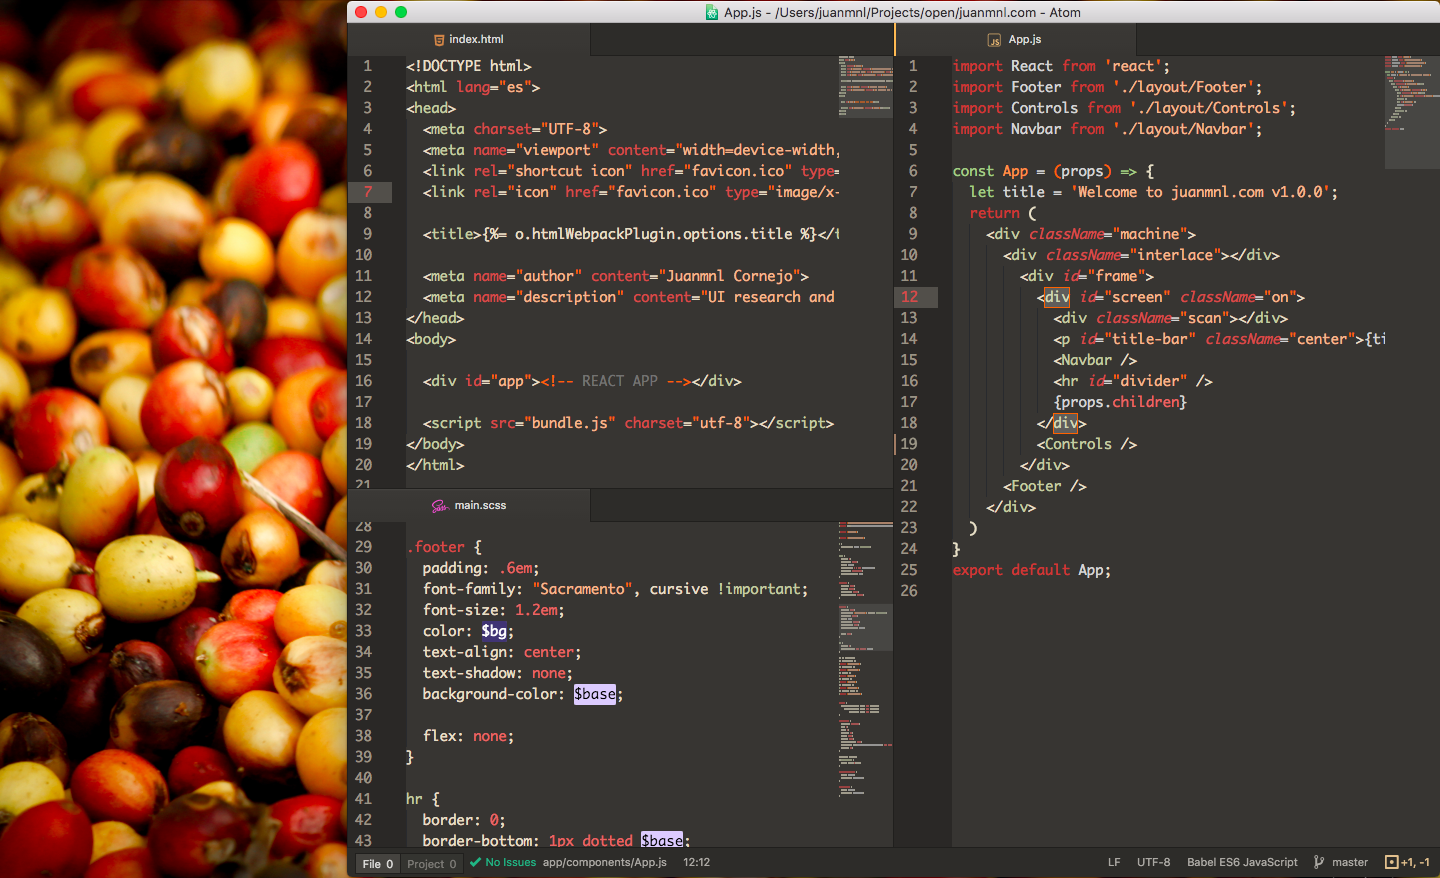
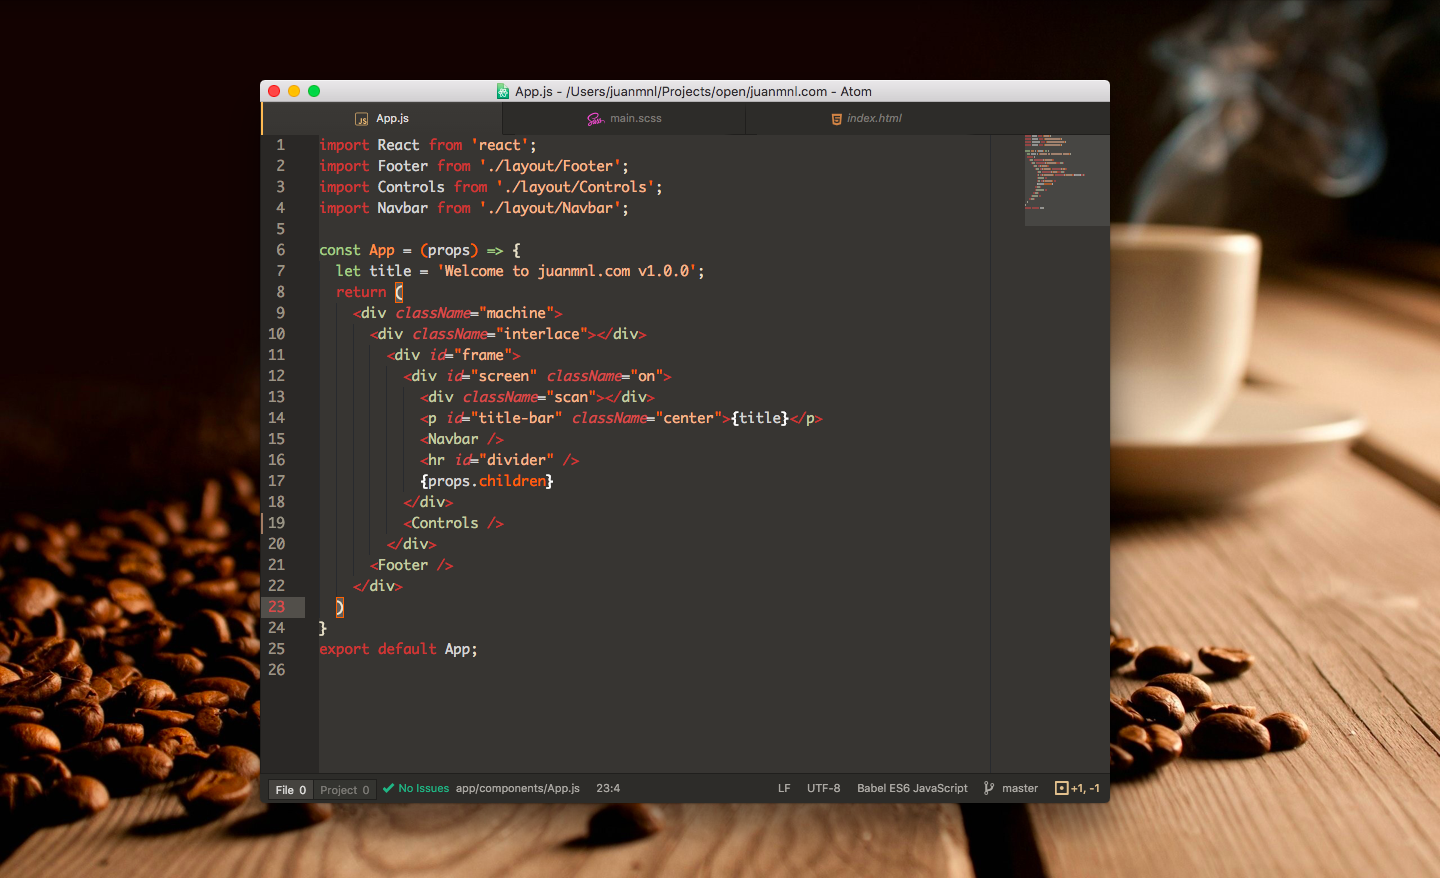
:coffee: Fix tags & js specific coloring and add screens

diff --git a/styles/base.less b/styles/base.less
@@ -175,13 +175,18 @@
 .punctuation {
   &.definition {
     &.comment {
-      color: @punctuation;
+      color: @light-gray;
+    }
+
+    &.tag {
+      color: @keyword;
     }
 
     &.string,
     &.variable,
     &.parameters,
-    &.array {
+    &.array,
+    &.dictionary {
       color: @punctuation;
     }
 
@@ -202,7 +207,8 @@
   }
 
   &.section.embedded {
-    color: @whiter;
+    color: @ghost;
+    font-weight: bold;
   }
 }
 
@@ -269,7 +275,7 @@
   }
 
   &.property.object.js > .variable.other.property.js {
-    color: @orange;
+    color: @punctuation;
   }
 }
 

diff --git a/styles/colors.less b/styles/colors.less
@@ -23,3 +23,4 @@
 @cacs: #B7593A;
 @nameFunc: #FF8F46;
 @punctuation: #FF6200;
+@ghost: #fff;

diff --git a/README.md b/README.md
@@ -1,12 +1,20 @@
-# Redui-jm Syntax Theme
+# Redui-jm Syntax Theme :coffee:
 
-A nice aromatic and strong-flavored syntax theme for Atom and the ONE DARK UI theme  
+Your coffee is ready!!  
+
+A nice aromatic coffee infused syntax theme for Atom and the ONE DARK UI theme  
 :coffee: From the highlands of the Andes to your Atom editor :coffee:
 
 ## Screen
 
-![Redui-jm screenshot](https://raw.githubusercontent.com/juanmnl/redui-jm-theme/master/coffee.png)
+JSX/ES6 (babel)
+![Redui-jm screenshot](https://raw.githubusercontent.com/juanmnl/redui-jm-theme/master/coffee.png)  
 
+Scss  
+![Redui-jm screenshot](https://raw.githubusercontent.com/juanmnl/redui-jm-theme/master/scss.png)  
+
+Html
+![Redui-jm screenshot](https://raw.githubusercontent.com/juanmnl/redui-jm-theme/master/html.png)
 
 Open Atom Preferences > Install > Search *themes*: `redui-jm-syntax`,
 then Install.
